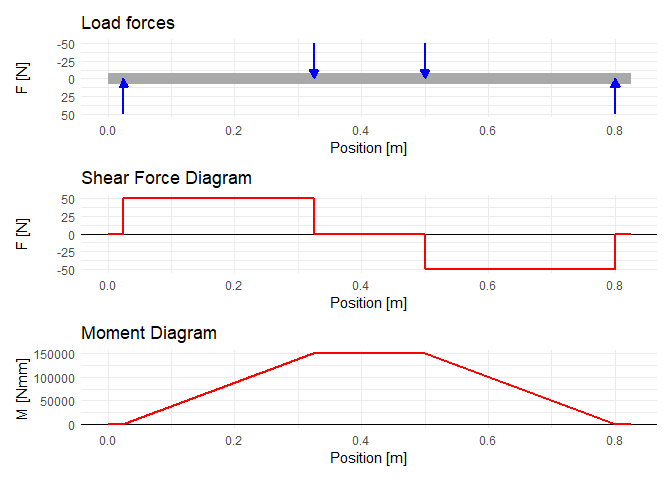
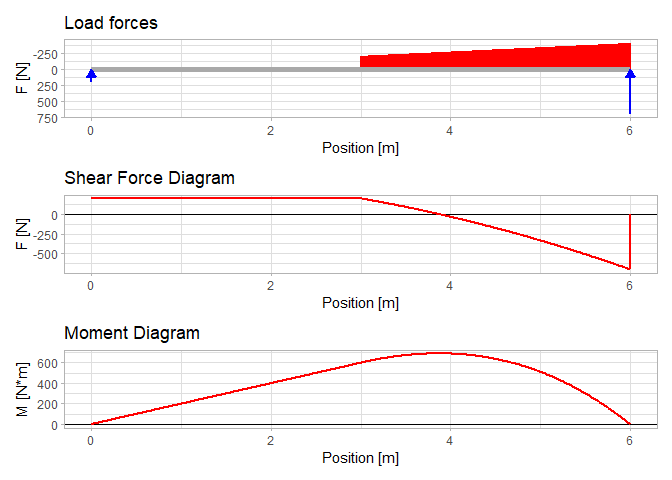
Update documentation and README

diff --git a/README.md b/README.md
@@ -16,20 +16,28 @@ remotes::install_github("hau-mech/rstatics")
 
 ## Usage
 
+### Shear and moment diagrams
+
 ``` r
 
 library(rstatics)
-library(ggplot2)
+library(tidyverse)
 library(patchwork)
 
-loads <- tibble::tribble( ~x, ~force,
-                         0.025,  50,
-                         0.325, -50,
-                         0.500, -50,
-                         0.800,  50)
-plot_internal_forces(.beam_length = 0.825, 
-                     .resolution = 0.0001, 
-                     .loads = loads)
+# Problem definition
+beam_length = 6
+
+distributed_load <- tibble::tibble(x = seq(3, beam_length, 0.01)) |>
+  mutate(load = -(200/3)*x)
+
+point_force <- tibble::tribble( ~x, ~force,
+                                0,  200,
+                                6,  700)
+
+# Diagrams
+plot_internal_forces(.beam_length = beam_length,
+                     .point_force = point_force,
+                     .distributed_load = distributed_load)
 ```
 
 ![](man/figures/README-unnamed-chunk-3-1.png)
